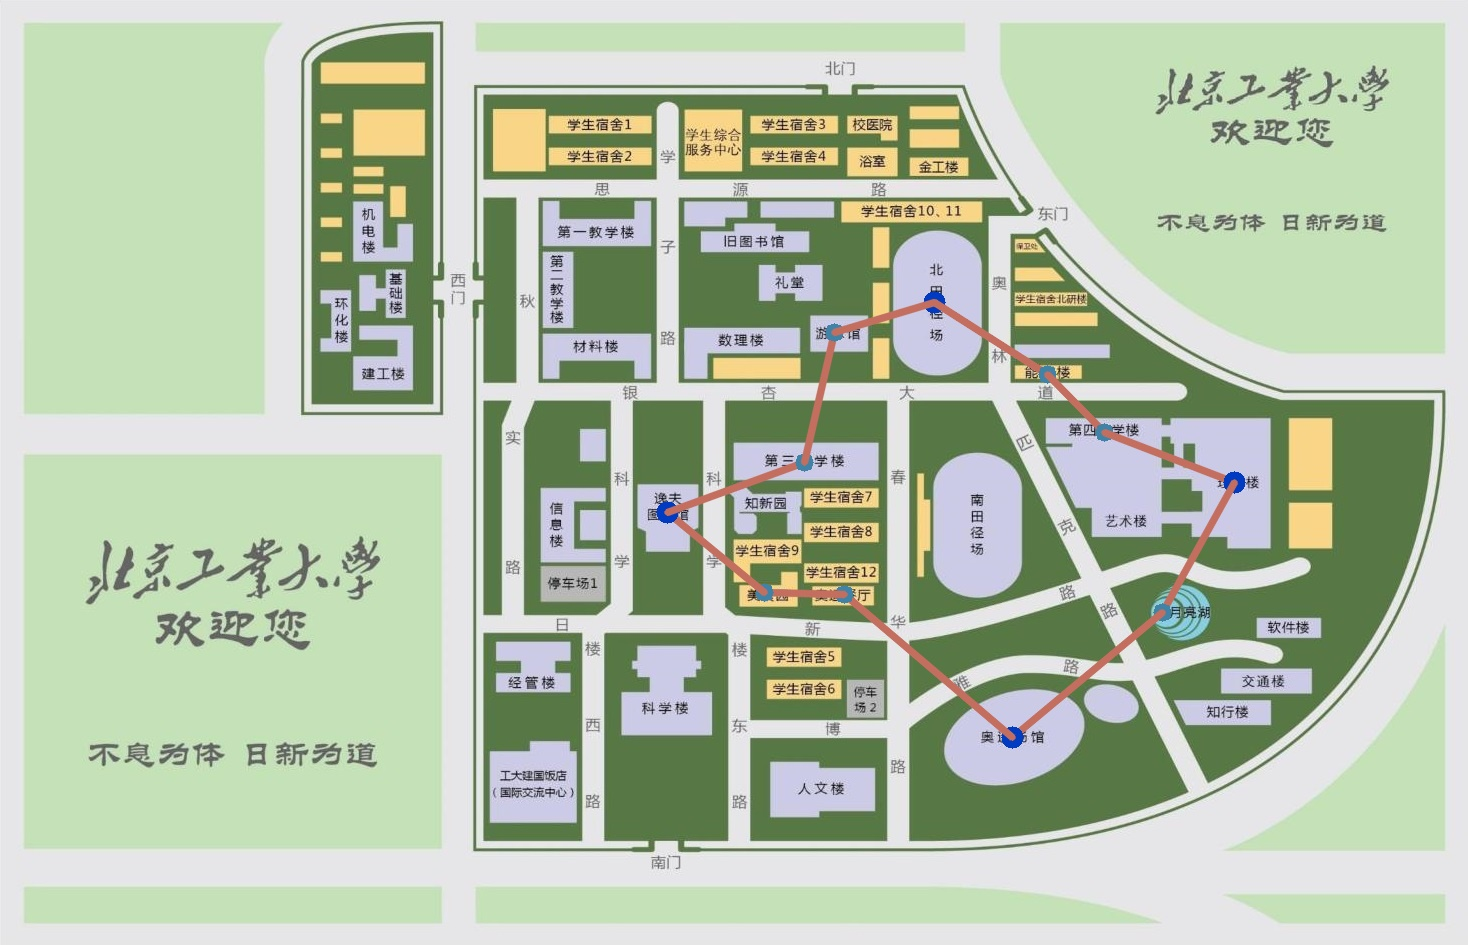
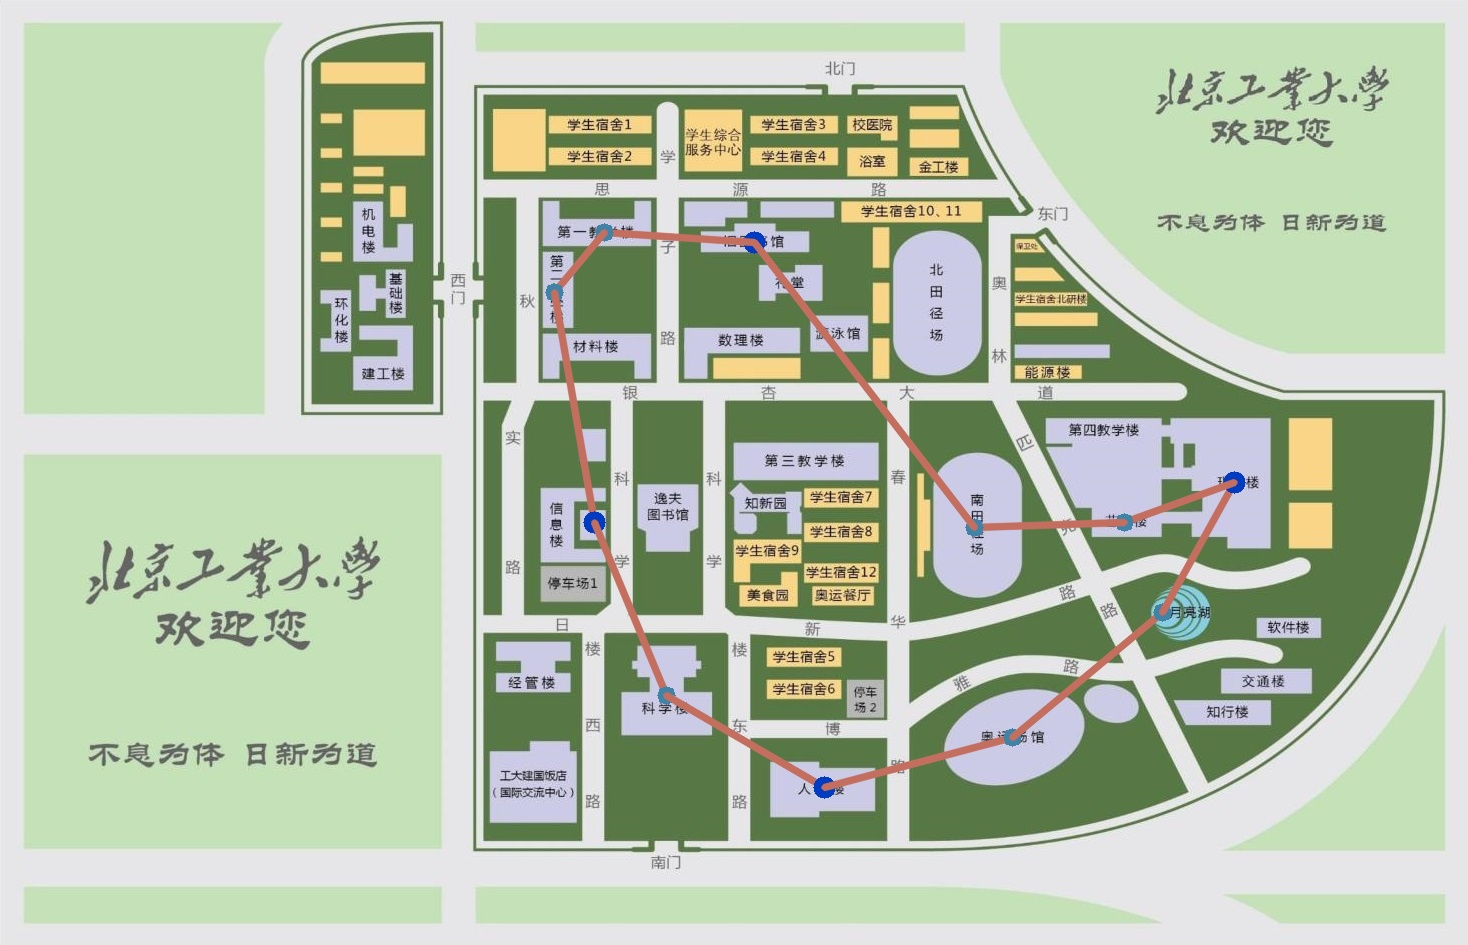
重写TSP_GA且适配主界面

diff --git a/code/TSP_GA.py b/code/TSP_GA.py
@@ -5,15 +5,22 @@ import time
 import numpy as np
 
 from geopy.distance import geodesic
+from Route import *
 
 SCORE_NONE = -1
 
 
 def main():
     start = time.time()
-    pos = [18, 23, 22, 41, 32]
+    pos = [17, 22, 41, 33]
     tsp = TSP_GA(pos)
-    tsp.run(30)
+    road = tsp.run(30)
+    print(road.simple_road)
+    print(road.entire_road)
+    print(road.min_distance)
+    print(road.simple_citys_name)
+    print(road.entire_citys_name)
+    print(road.signle_distance)
     end = time.time()
     print(end - start, 's')
 
@@ -24,9 +31,10 @@ class TSP_GA(object):
         self.citys = []
         self.selected_pos = selected_pos
         self.best_distance = -1
-        self.simple_road = []
-        self.entire_road = []
-        self.floyd_mat = []
+
+        self.road = Route()
+
+        self.mat_floyd = []
         self.pre_mat = []
         self.initCitys()
         self.individual_road = []
@@ -55,8 +63,8 @@ class TSP_GA(object):
             entired_text = floyd_mat.read()
             for row in entired_text.split('\n'):
                 for item in row.rstrip().split(' '):
-                    self.floyd_mat.append(float(item))
-            self.floyd_mat = np.array(self.floyd_mat).reshape((47, 47))
+                    self.mat_floyd.append(float(item))
+            self.mat_floyd = np.array(self.mat_floyd).reshape((47, 47))
 
         with open('../address/pre_mat.txt') as pre_mat:
             entired_text = pre_mat.read()
@@ -92,35 +100,61 @@ class TSP_GA(object):
             self.ga.next()
             self.best_distance = self.distance(self.ga.best.gene)
             n -= 1
-        return self.get_simple_road(), self.get_entire_road(), self.best_distance
 
-    def get_simple_road(self):
-        # print("经过%d次迭代，最优解距离为：%f" % (self.ga.generation, self.best_distance))
-        # print("遍历城市顺序为：", )
-        for i in self.ga.best.gene:
-            self.simple_road.append(self.citys[i][3])
-        return self.simple_road
+        s = self.ga.best.gene
+        t = []
+        index = -1
+        for i in range(len(s)):
+            if s[i] != self.selected_pos[0]:
+                continue
+            index = i
+            break
 
-    def get_entire_road(self):
-        for i in range(-1, len(self.simple_road) - 1):
-            city1 = self.simple_road[i]
-            city2 = self.simple_road[i + 1]
-            self.entire_road.append(city1)
-            self.get_two_point_road(city1, city2)
+        for i in range(len(s)):
+            t.append(s[index])
+            index = (index + 1) % len(s)
 
-        return self.entire_road
+        t.append(self.selected_pos[0])
+        self.road.simple_road = t
+        self.get_entire_path()
+        self.road.min_distance = self.best_distance
+        self.GetSignalDistance()
+        self.road.GetCitysName()
+        return self.road
+
+    def get_entire_path(self):
+        pre_point = -1
+        for item in self.road.simple_road:
+            if pre_point != -1:
+                self.get_two_point_road(pre_point, item)
+            pre_point = item
+            self.road.entire_road.append(item)
 
     def get_two_point_road(self, i, j, model=0):
         if model == 0:
             if j != self.pre_mat[i][j]:
                 j = self.pre_mat[i][j]
                 self.get_two_point_road(i, j)
-                self.entire_road.append(j)
+                self.road.entire_road.append(j)
         elif model == 1:
             if j != self.pre_mat[i][j]:
                 j = self.pre_mat[i][j]
-                self.get_two_point_road(i,j,1)
+                self.get_two_point_road(i, j, 1)
                 self.individual_road.append(j)
+
+    def GetSignalDistance(self):
+        sum = 0
+        for i in range(len(self.road.simple_road) - 1):
+            if i == 0:
+                self.road.signle_distance.append(self.road.min_distance)
+                continue
+
+            city1 = self.road.simple_road[i - 1]
+            city2 = self.road.simple_road[i]
+
+            dis = self.mat_floyd[city1][city2]
+            sum += dis
+            self.road.signle_distance.append(sum)
 
 
 class Life(object):
@@ -155,7 +189,6 @@ class GA(object):
         self.lives = []
         for i in range(self.lifeCount):
             gene = self.selected_pos.copy()
-            random.shuffle(gene)
             life = Life(gene)
             self.lives.append(life)
 

diff --git a/code/TSP_BackTrack.py b/code/TSP_BackTrack.py
@@ -56,7 +56,6 @@ class TSP_BackTrack:
             path.pop()
 
     def get_entire_path(self):
-        en_road = []
         pre_point = -1
 
         for item in self.road.simple_road:
@@ -71,15 +70,7 @@ class TSP_BackTrack:
             self.get_two_point_road(i, j)
             self.road.entire_road.append(j)
 
-    def run(self, nums):
-        self.pos = nums.copy()
-
-        path = [self.pos[0]]
-        used = np.zeros((len(self.pos),), dtype=int)
-        used[0] = 1
-        self.backtrack(path, self.pos[0], 0, used)
-        self.get_entire_path()
-
+    def GetSignalDistance(self):
         sum = 0
         for i in range(len(self.road.simple_road) - 1):
             if i == 0:
@@ -92,7 +83,18 @@ class TSP_BackTrack:
             dis = self.mat_floyd[city1][city2]
             sum += dis
             self.road.signle_distance.append(sum)
-            self.road.GetCitysName()
+
+
+    def run(self, nums):
+        self.pos = nums.copy()
+
+        path = [self.pos[0]]
+        used = np.zeros((len(self.pos),), dtype=int)
+        used[0] = 1
+        self.backtrack(path, self.pos[0], 0, used)
+        self.get_entire_path()
+        self.GetSignalDistance()
+        self.road.GetCitysName()
         return self.road
 
 

diff --git a/code/widget.py b/code/widget.py
@@ -628,7 +628,7 @@ class MainWindow(QWidget):
             for i in self.road.simple_citys_name:
                 self.Main_text += '\t'
                 self.Main_text += i
-                self.Main_text += '-->\n'
+                self.Main_text += '->\n'
 
             self.Main_text += '\t'
             self.Main_text += self.road.simple_citys_name[0]
@@ -638,7 +638,7 @@ class MainWindow(QWidget):
             for i in self.road.entire_citys_name:
                 self.Main_text += '\t'
                 self.Main_text += i
-                self.Main_text += '-->\n'
+                self.Main_text += '->\n'
 
             self.Main_text += '\t'
             self.Main_text += self.road.entire_citys_name[0]

diff --git a/code/test.py b/code/test.py
@@ -1,5 +1,10 @@
+import random
+
 from PyQt5.QtCore import *
 
-
-s = [1,2,3,4,5]
-print(s[1:])
+gen = [1, 4, 2, 6, 8]
+t = gen[1:]
+random.shuffle(t)
+print(t)
+t.insert(0, gen[0])
+print(t)
